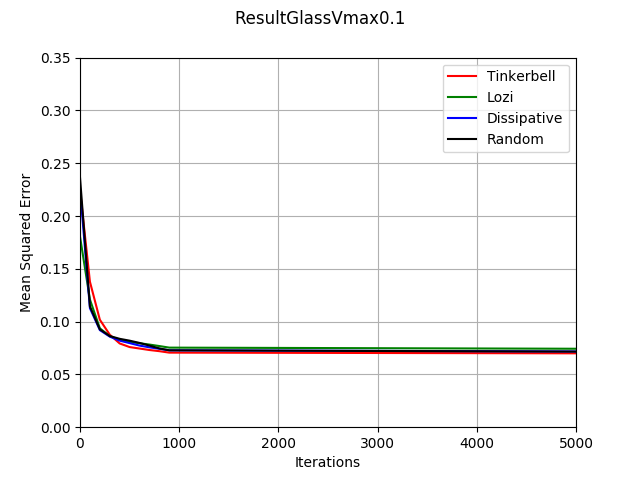
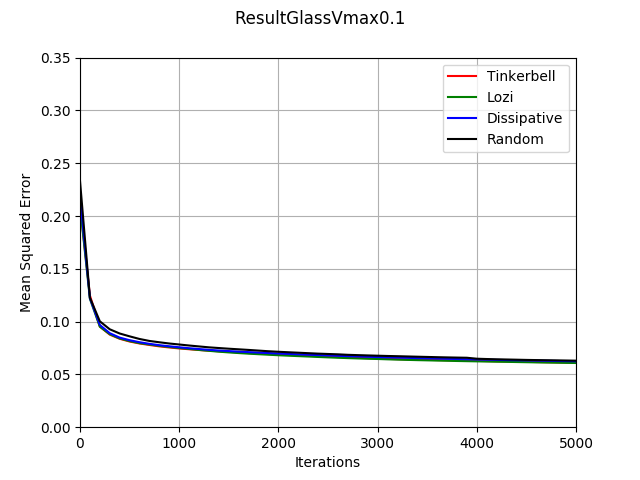
Final experiment

Changed region(s): [[0.125, 0.4688, 0.9062, 0.7812]]

diff --git a/src/psoNeuralNetwork/experiments/diabetes/vn-pso-nn-diabetes.py b/src/psoNeuralNetwork/experiments/diabetes/vn-pso-nn-diabetes.py
@@ -29,7 +29,7 @@ NUM_PARTICLES_X = 5
 INERTIA_WEIGHT = 0.729844
 COGNITIVE_CONSTANT = 1.496180
 SOCIAL_CONSTANT = 1.496180
-BOUNDS = Bounds(-5, 5)
+BOUNDS = Bounds(-2, 2)
 
 DESC = 'Glass'
 DATA_SET_FUNC = dataSetTool.getGlassDataSets
@@ -58,13 +58,14 @@ HIDDEN_LAYER_NEURONS = [12]
 
 
 # None, 1, 0.1, 0.01
-V_MAX = 0.01
+V_MAX = None
 
 dataSetArray = []
 for _ in range(iterations):
     dataSetArray.append(DATA_SET_FUNC(DATA_SET_FILE_LOC))
 
 print('Vmax: ', V_MAX)
+print('Data Set: ', DESC)
 print('Tinkerbell:')
 for i in range(samples):
     psonn = VNPSONN()
@@ -233,9 +234,9 @@ print(cpso_tinkerbell_generalization_factor_std)
 print('- Lozi:')
 print('E_T:')
 print('Mean squared error: ')
-print(cpso_tinkerbell_error_mean)
+print(cpso_lozi_error_mean)
 print('Standard deviation: ')
-print(cpso_tinkerbell_error_std)
+print(cpso_lozi_error_std)
 print('E_G:')
 print('Mean squared error: ')
 print(cpso_lozi_generalization_error_mean)
@@ -250,9 +251,9 @@ print(cpso_lozi_generalization_factor_std)
 print('- Dissipative:')
 print('E_T:')
 print('Mean squared error: ')
-print(cpso_tinkerbell_error_mean)
+print(cpso_dissipative_error_mean)
 print('Standard deviation: ')
-print(cpso_tinkerbell_error_std)
+print(cpso_dissipative_error_std)
 print('E_G:')
 print('Mean squared error: ')
 print(cpso_dissipative_generalization_error_mean)
@@ -267,9 +268,9 @@ print(cpso_dissipative_generalization_factor_std)
 print('- Random:')
 print('E_T:')
 print('Mean squared error: ')
-print(cpso_tinkerbell_error_mean)
+print(pso_error_mean)
 print('Standard deviation: ')
-print(cpso_tinkerbell_error_std)
+print(pso_error_std)
 print('E_G:')
 print('Mean squared error: ')
 print(pso_generalization_error_mean)

diff --git a/src/neuralNetwork/experiments/nn-glass.py b/src/neuralNetwork/experiments/nn-glass.py
@@ -9,9 +9,9 @@ from numberGenerator.bounds import Bounds
 np.set_printoptions(suppress=True)
 
 dataSetTool = DataSetTool()
-training, generalization, testing = dataSetTool.getGlassDataSets('../../dataSet/glass/glass.data')
+training, testing, generalization= dataSetTool.getGlassDataSets('../../dataSet/glass/glass.data')
 
-l_rate = 0.1
+l_rate = 0.01
 
 bounds = Bounds(-2, 2)
 
@@ -29,11 +29,16 @@ group_target = np.array([output[1] for output in training])
 
 errors = []
 
+plt.grid(1)
+plt.xlabel('Iterations')
+plt.ylabel('Error')
+plt.ylim([0, 1])
+plt.ion()
+
 for i in range(5000):
     result = fnn.fire(group_training)
     i_error = fnn.backPropagation(group_target)
 
-    #print("Error:" + str(fnn))
     difference = group_target - result
     fnn.error = np.mean(np.square(difference))
 
@@ -45,17 +50,14 @@ for i in range(5000):
 
 correct = 0
 
-for i in range(len(testing)):
-    in_out = testing[i]
+for i in range(len(generalization)):
+    in_out = generalization[i]
     result = fnn.fire(np.array([in_out[0]]))
-
-    print(result)
-    print(in_out[1])
-    print()
 
     if np.argmax(result) == np.argmax(in_out[1]):
         correct += 1
 
 
-print("Classification error: ", str(correct/len(testing)) + "%")
+print("Classification accuracy: ")
+print(str(correct/len(generalization)) + "%")
 

diff --git a/src/neuralNetwork/structure/layer.py b/src/neuralNetwork/structure/layer.py
@@ -3,7 +3,7 @@ import numpy as np
 import neuralNetwork.structure.activations as activations
 
 class Layer(object):
-    def __init__(self, bounds, size, prev, l_rate, bias = False, label = "Layer"):
+    def __init__(self, bounds, size, prev, l_rate = 1, bias = False, label = "Layer"):
         assert isinstance(size, int) and size > 0
         assert isinstance(prev, Layer) or prev == None
         assert isinstance(bias, bool)

diff --git a/src/neuralNetwork/feedForwardNeuralNetwork.py b/src/neuralNetwork/feedForwardNeuralNetwork.py
@@ -48,13 +48,6 @@ class NeuralNetwork(object):
         for layer in self.layers:
             weights = layer.setWeights(weights)
 
-    # Used for PSO NN training
-    def getMSE(self):
-        last = self.layers[len(self.layers) - 1]
-        error = last.error
-        outUnits = last.size
-        return np.mean(np.square(difference))
-
     def __str__(self):
         res = ""
         for layer in self.layers:
